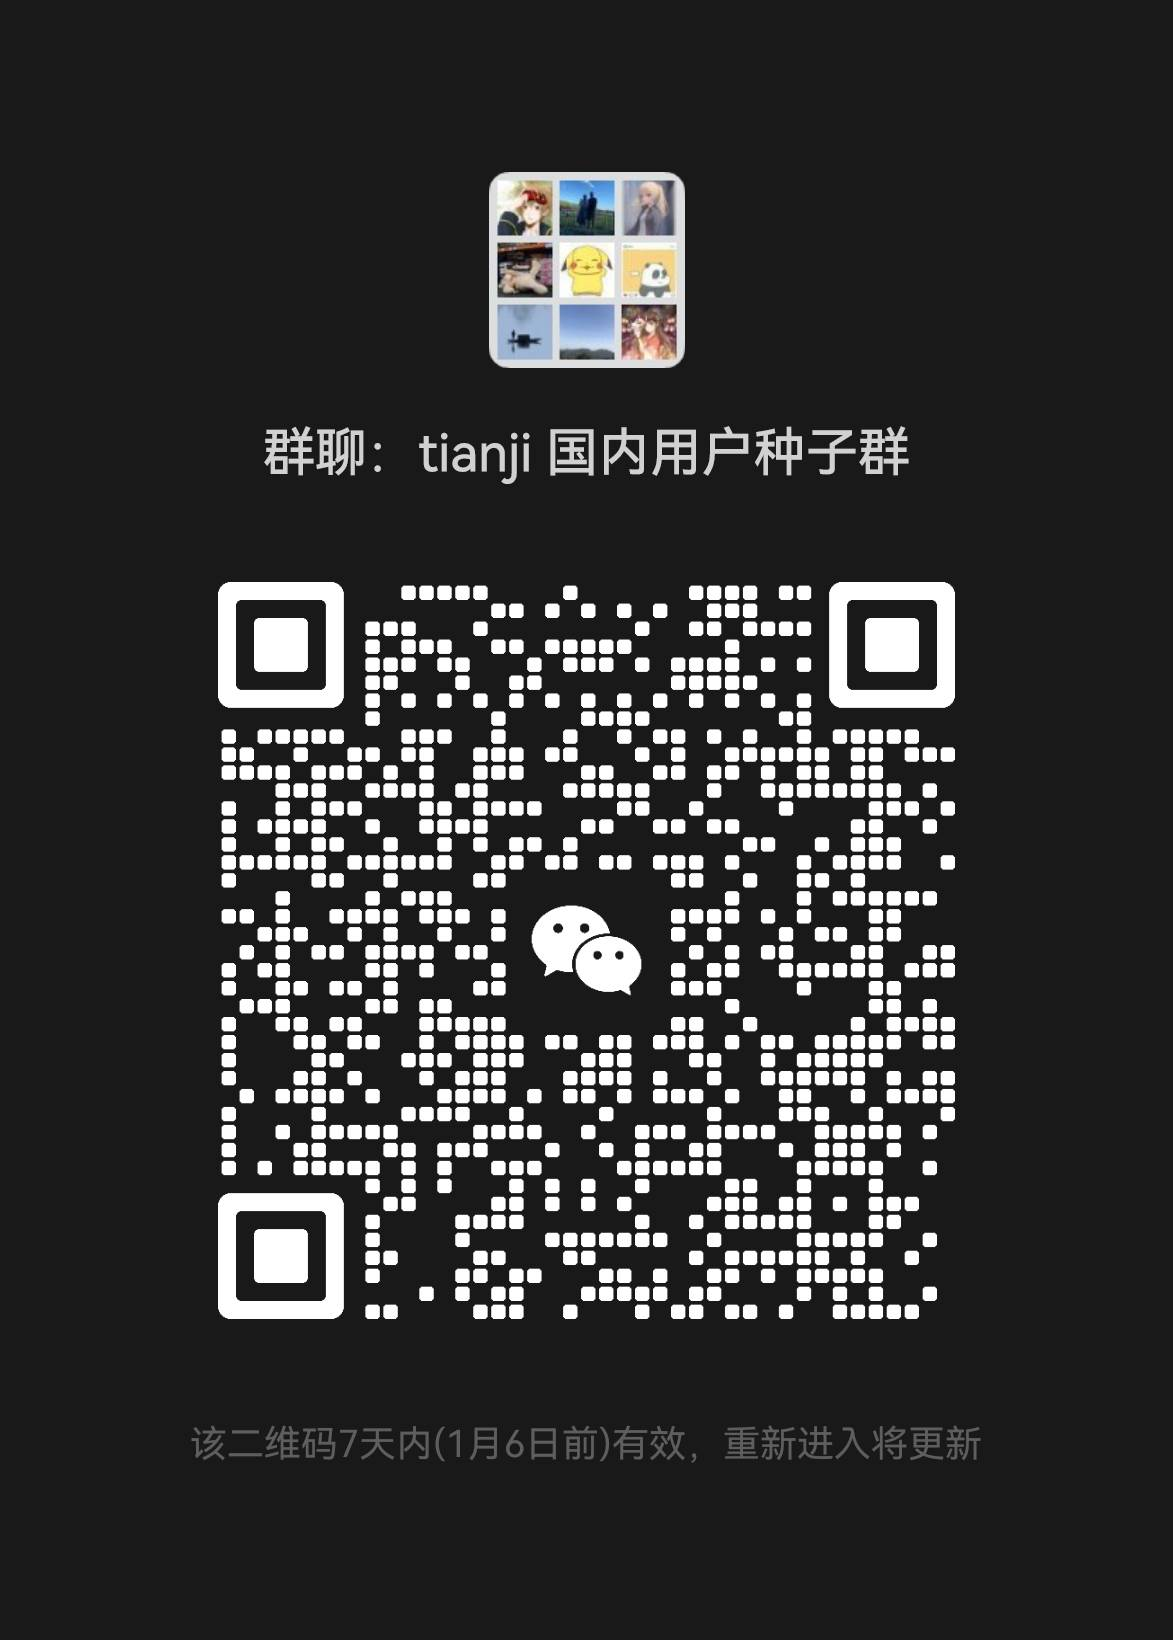
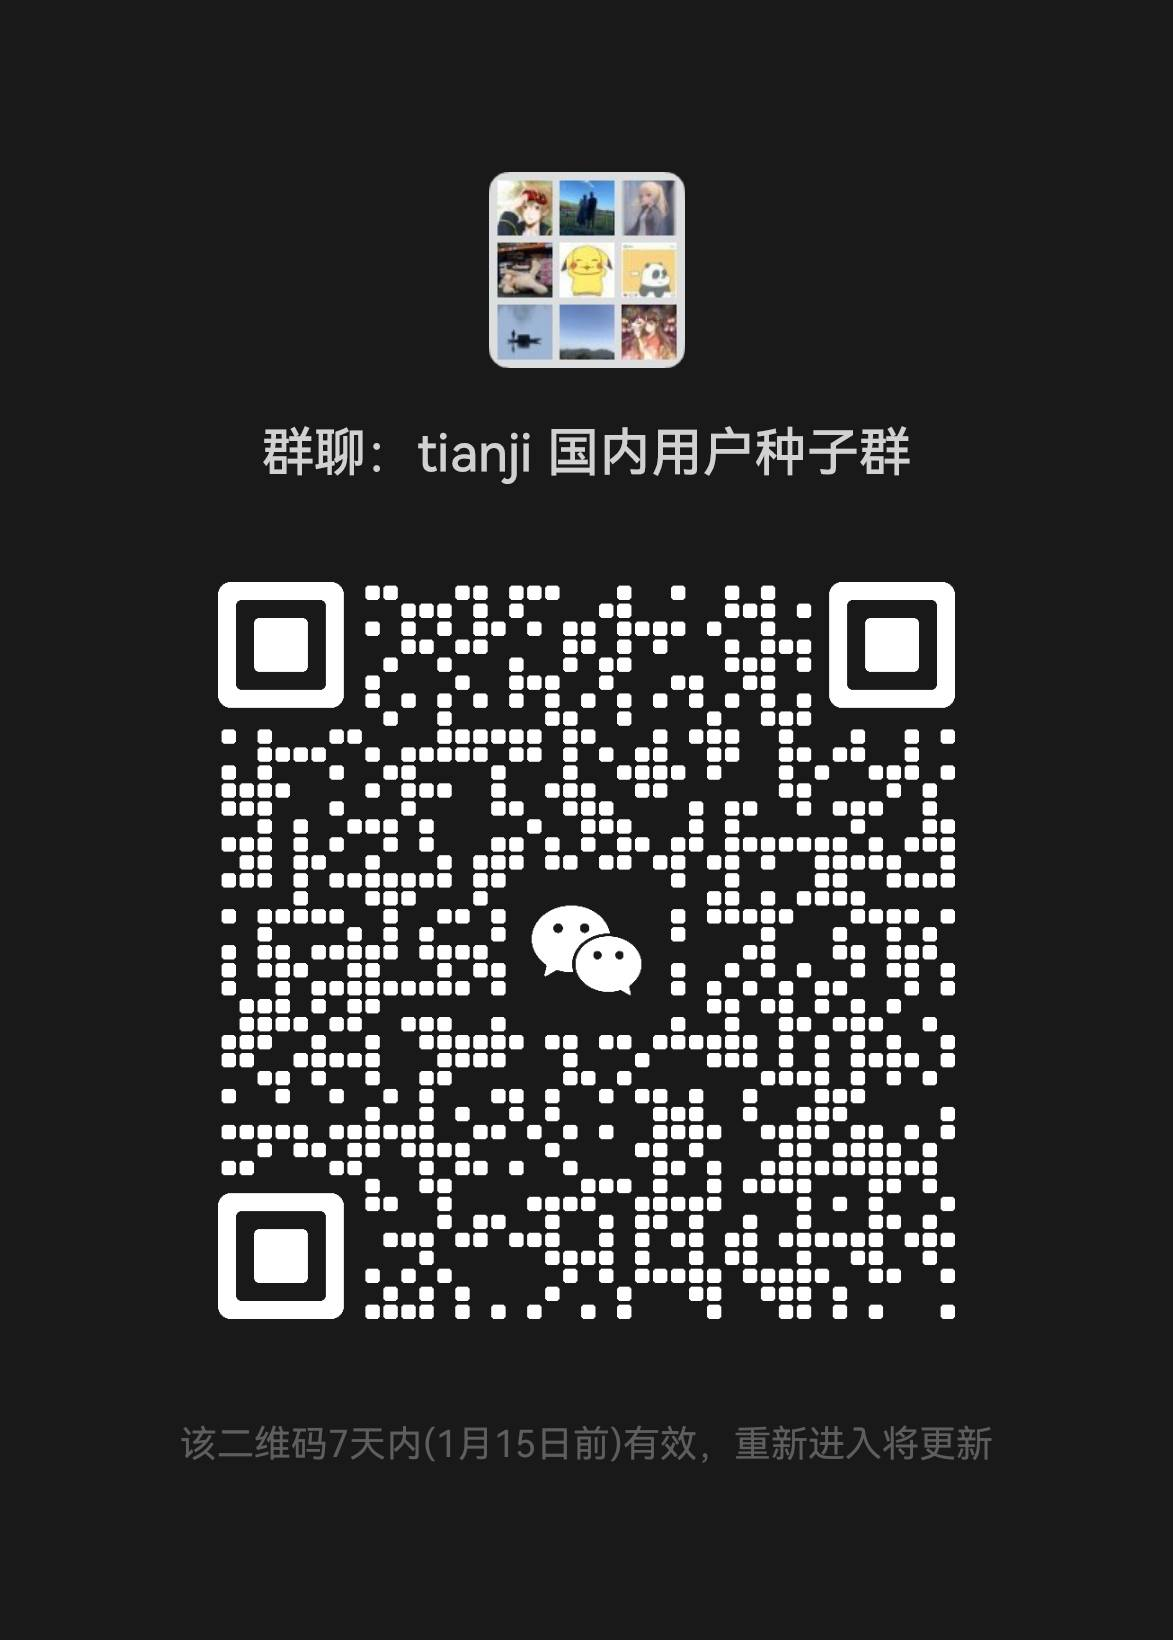
docs: update wechat image and home page tagline
and add event report

diff --git a/website/src/pages/index.tsx b/website/src/pages/index.tsx
@@ -19,9 +19,6 @@ function HomepageHeader() {
           <span className="text-gradient font-bold">{siteConfig.title}</span>
         </h1>
         <p className="opacity-60 text-2xl">{siteConfig.tagline}</p>
-        <p className="opacity-60">
-          Tianji brings all your commonly used tools together in one place
-        </p>
         <div className="text-xl">
           <span className="text-gradient font-bold">Tianji</span> ={' '}
           <span className="underline font-semibold">Website Analytics</span> +{' '}
@@ -118,18 +115,21 @@ function HomepageFooter() {
           <BlockCard
             icon={<RiWechatFill className="text-green-500" />}
             title="Wechat"
+            data-tianji-event="community-wechat"
           />
         </Popover>
 
         <BlockCard
           icon={<RiDiscordFill className="text-indigo-600" />}
           title="Discord"
+          data-tianji-event="community-discord"
           onClick={() => window.open('https://discord.gg/8Vv47wAEej')}
         />
 
         <BlockCard
           icon={<RiTwitterXFill />}
           title="Twitter"
+          data-tianji-event="community-twitter"
           onClick={() => window.open('https://twitter.com/moonrailgun')}
         />
       </div>
@@ -141,8 +141,8 @@ export default function Home(): JSX.Element {
   const { siteConfig } = useDocusaurusContext();
   return (
     <Layout
-      title={`Hello from ${siteConfig.title}`}
-      description="Insight into everything"
+      title={`Tianji = Website Analytics + Uptime Monitor + Server Status`}
+      description={siteConfig.tagline}
     >
       <HomepageHeader />
 
